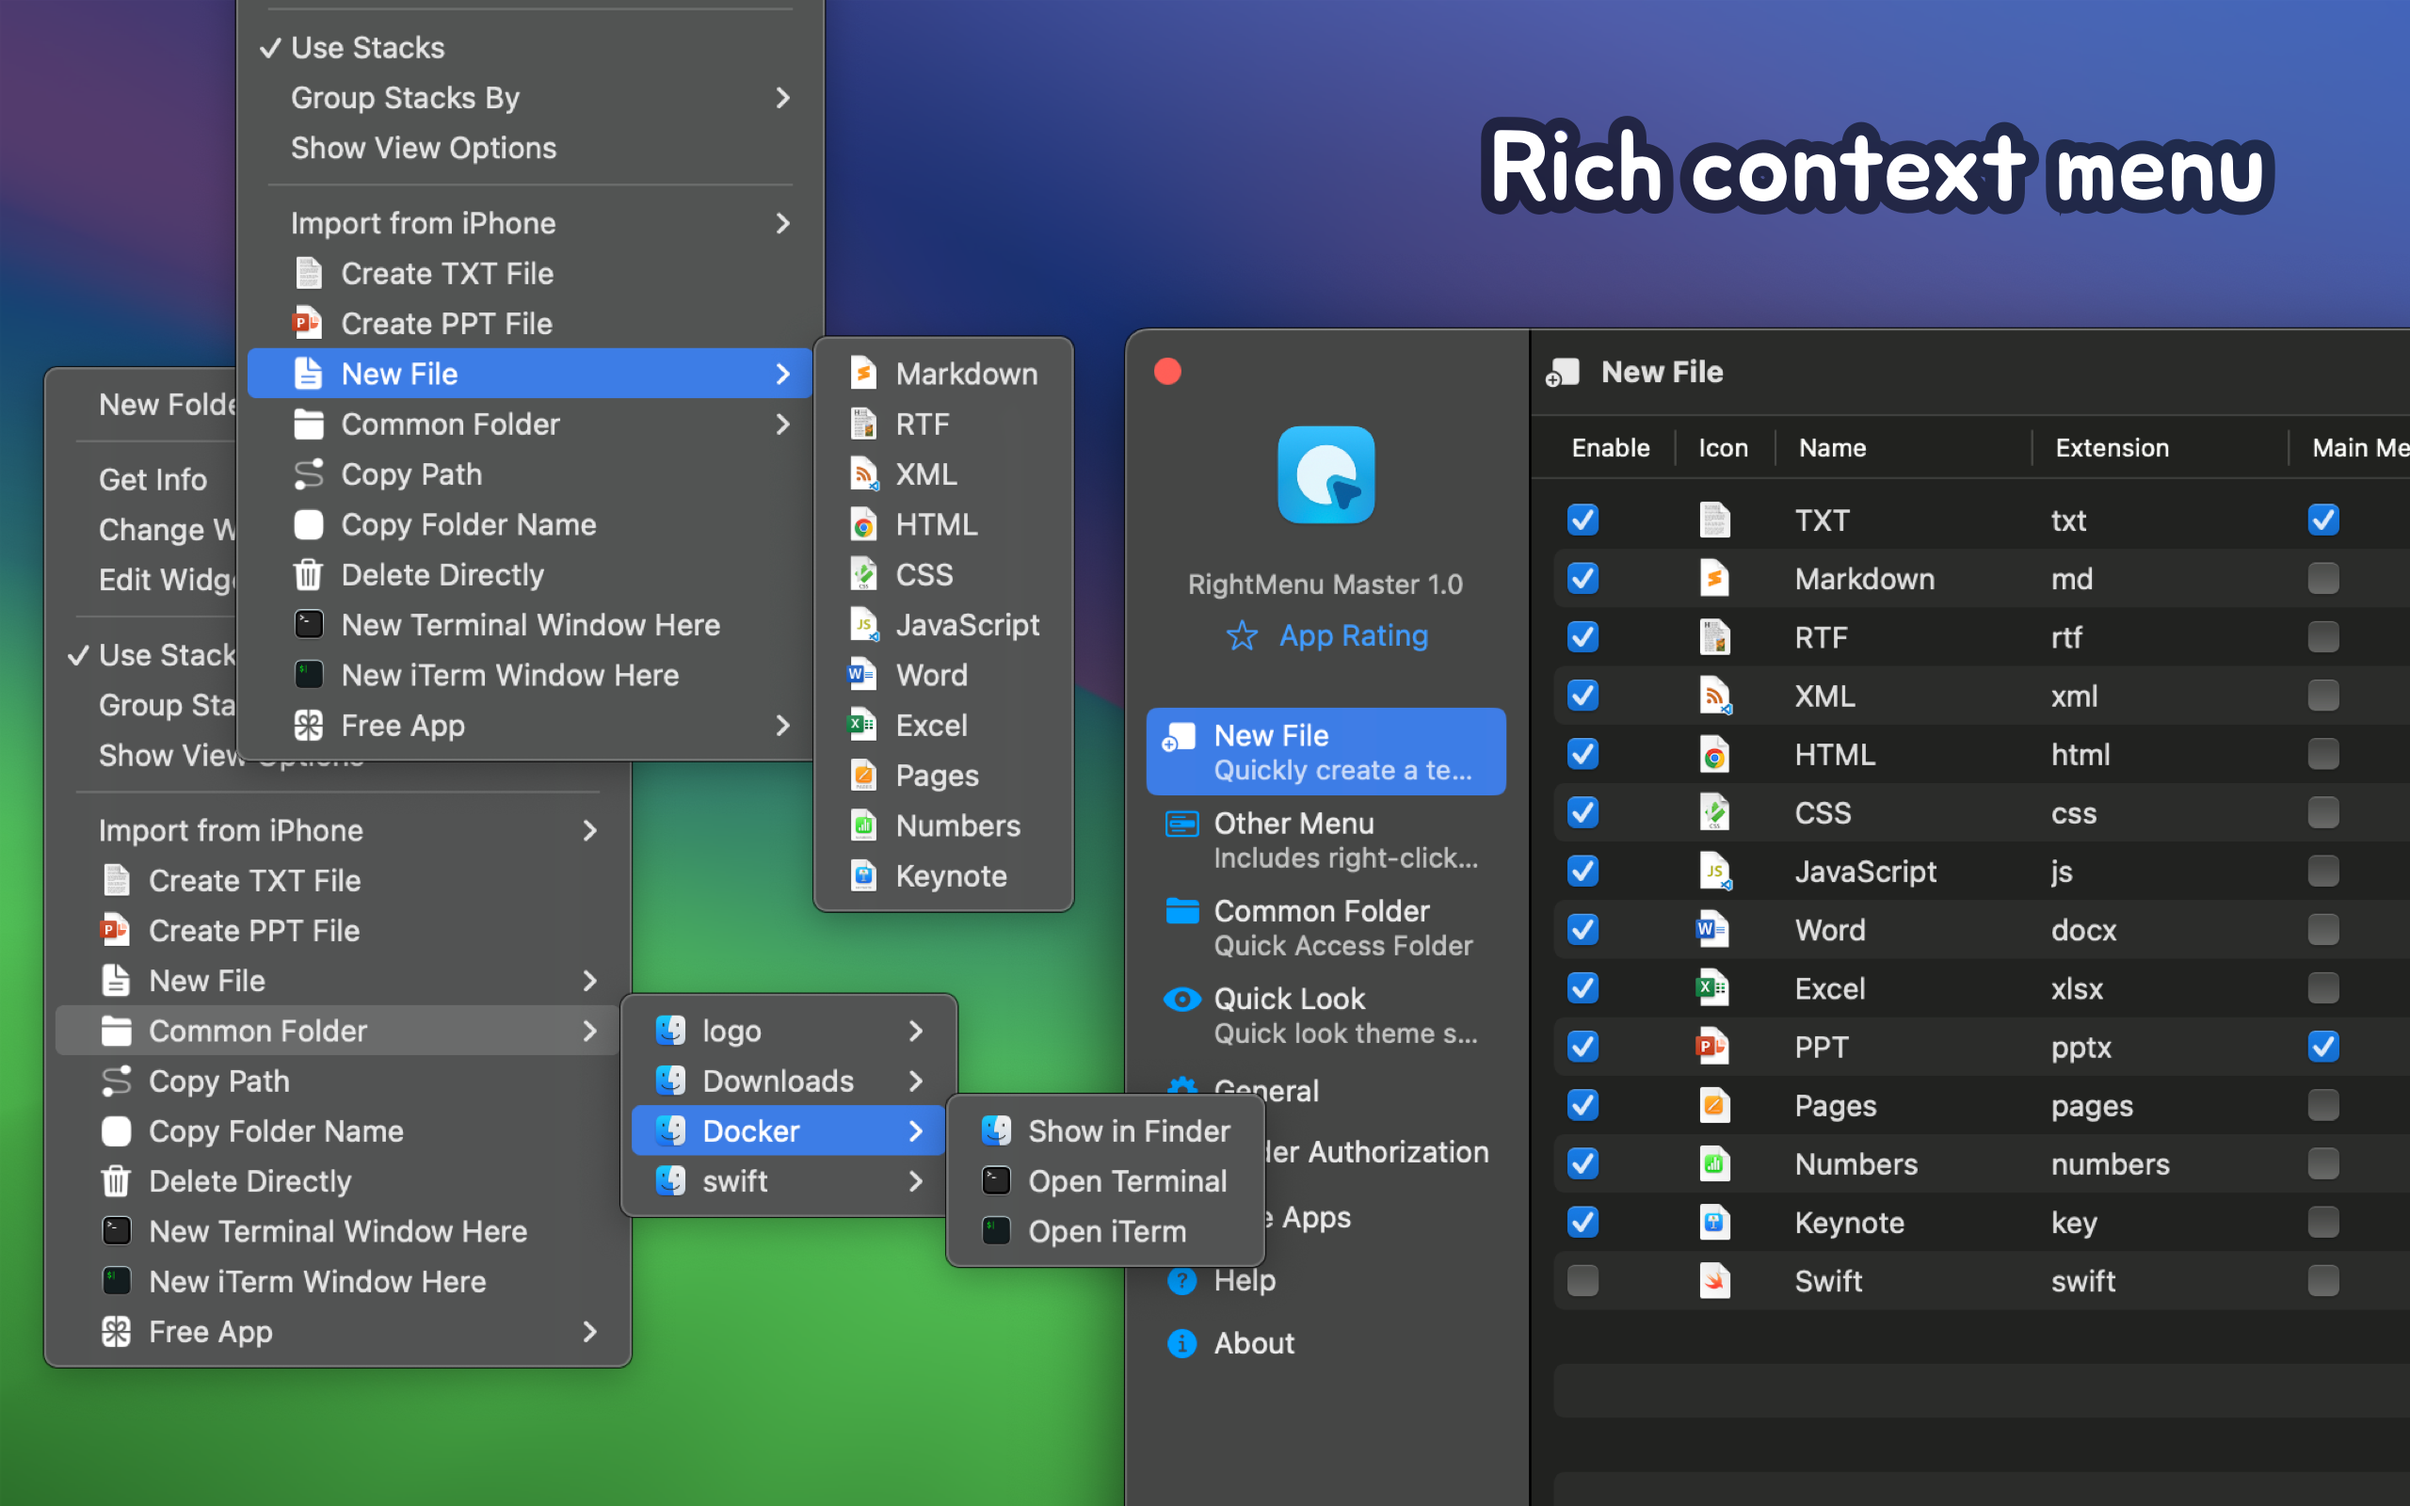
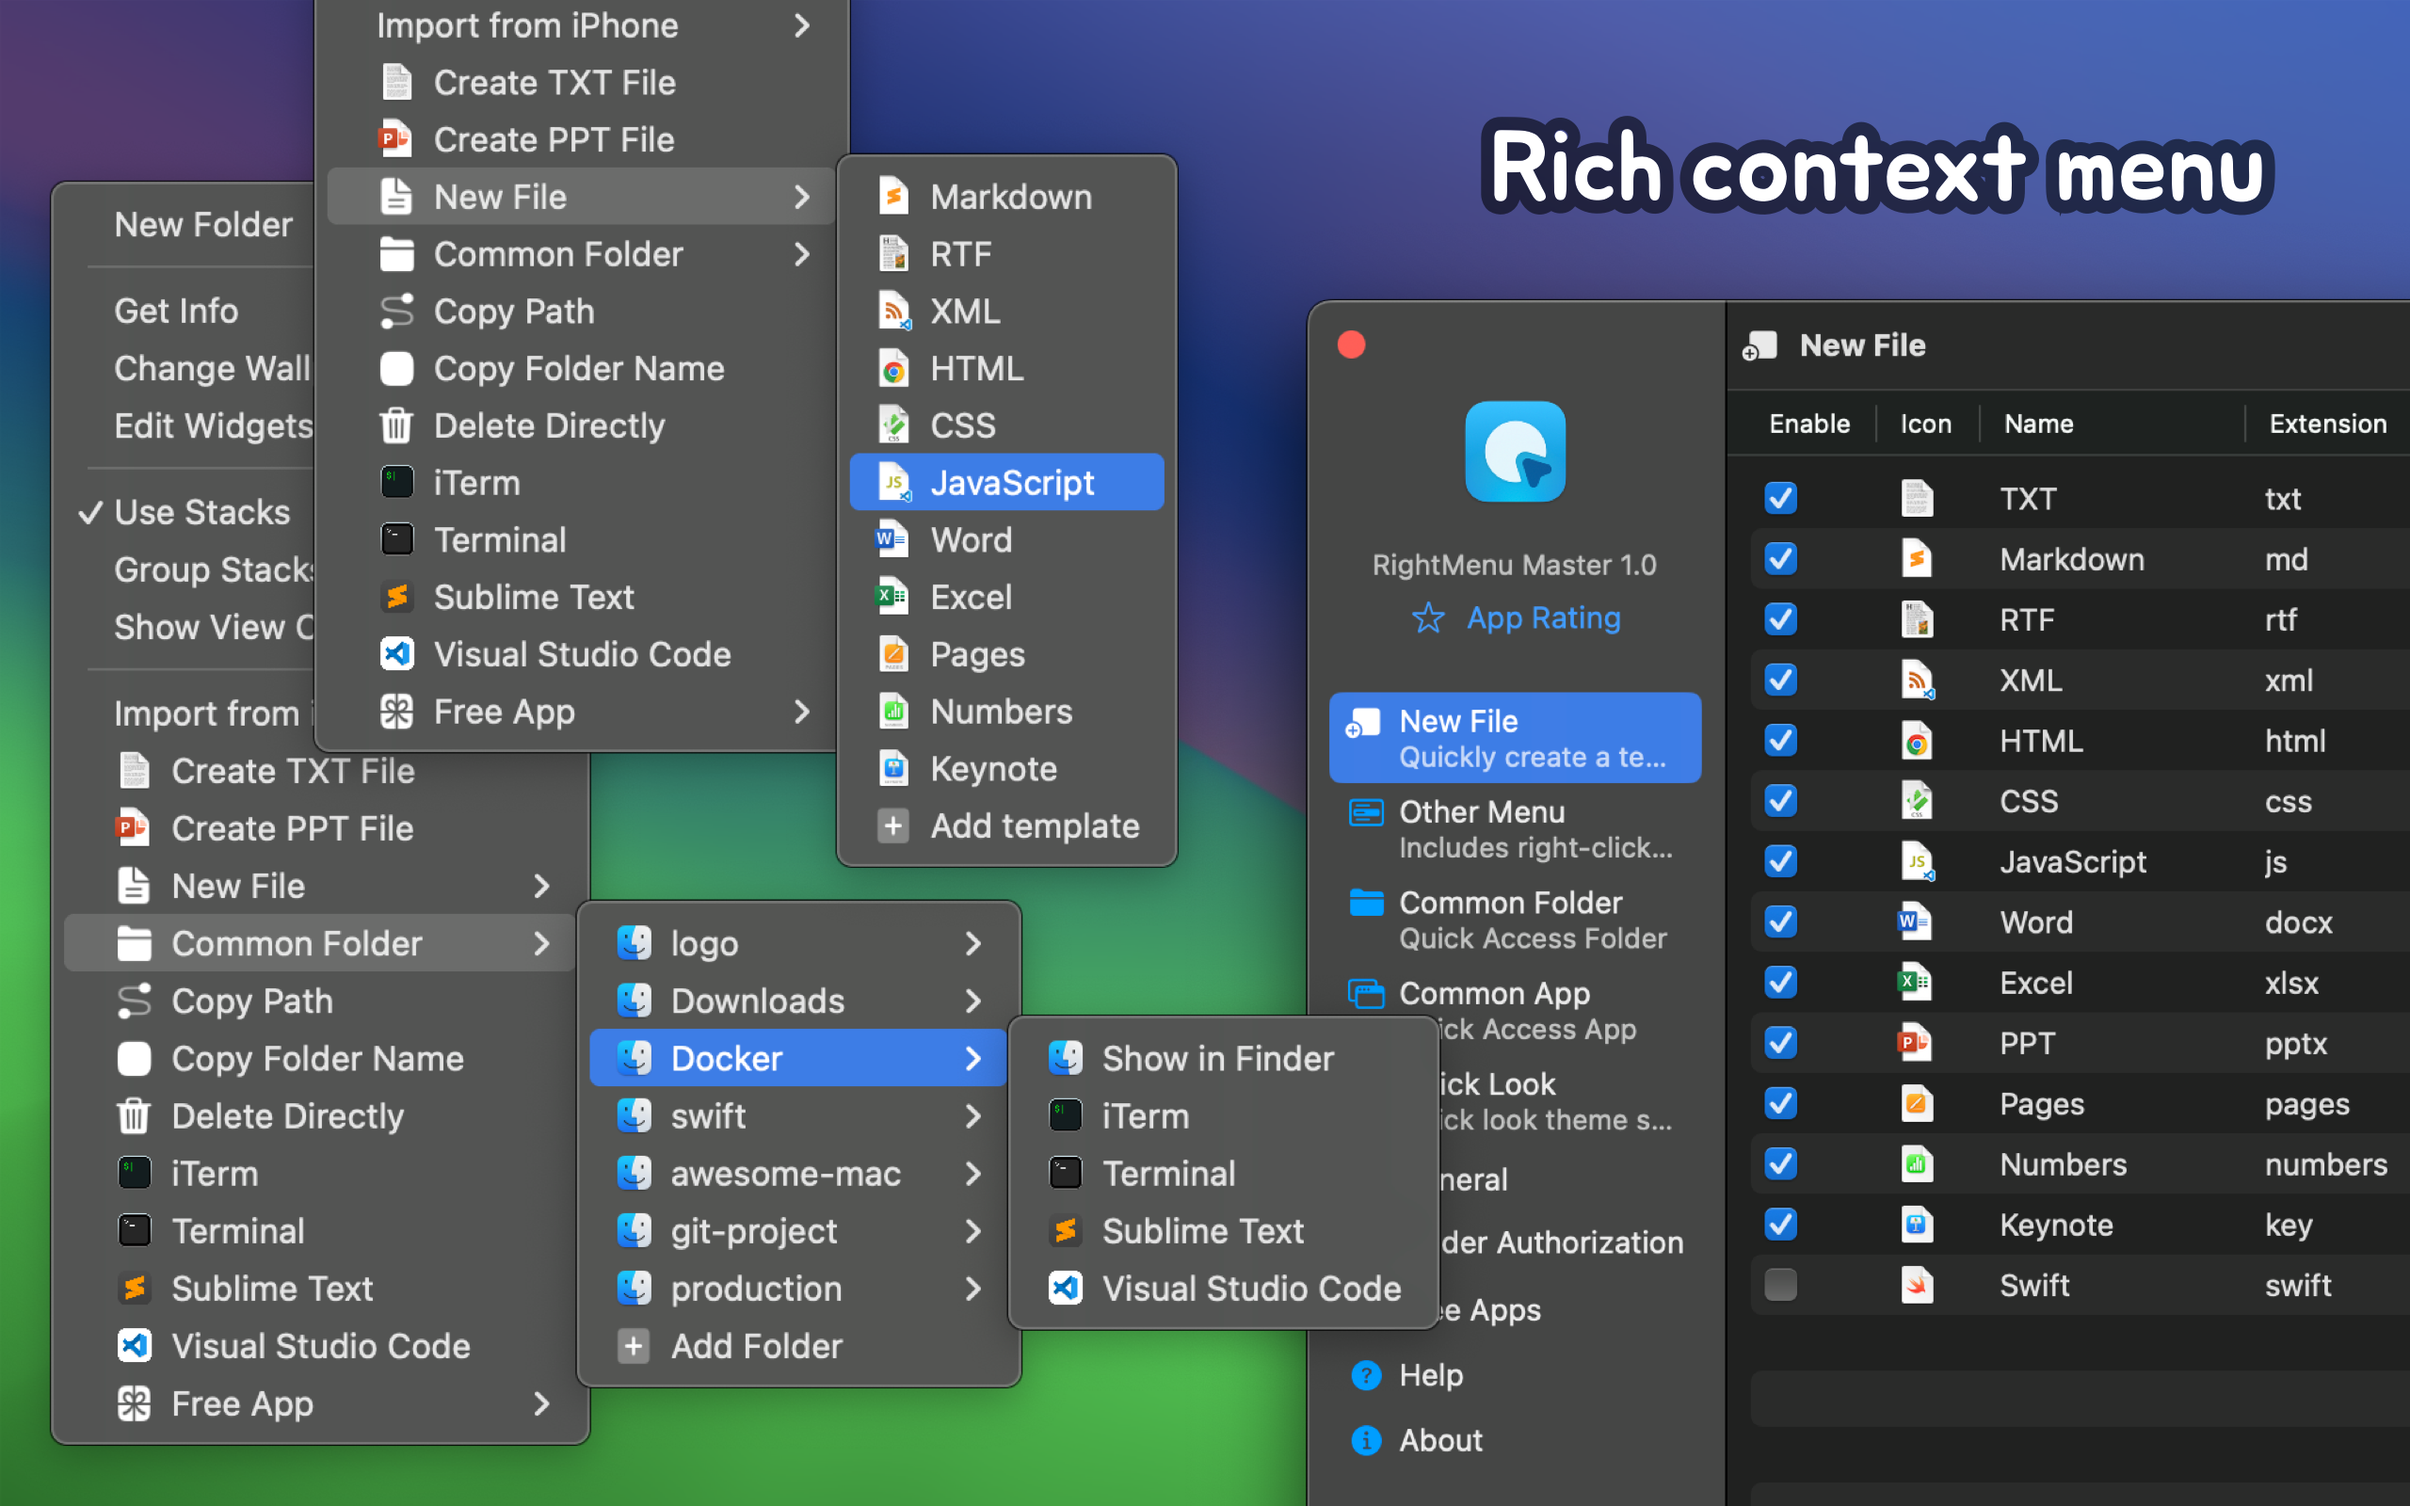
doc: update README.md

diff --git a/README.md b/README.md
@@ -52,9 +52,9 @@ A quick preview extension is provided for viewing source text files with syntax 
 
 Supports custom frequently used folders for quick access to directories or to open a new terminal window directly in a specific folder.
 
-**■ Create Terminal Window Here**
+**■ Common Apps**
 
-Supports opening a new terminal window in the current folder using Terminal or iTerm, making it easy to access the terminal in any directory.
+Supports various editors and command-line tools (Terminal/iTerm) to quickly open the current directory, enhancing operational efficiency.
 
 **■ Copy Features**
 

diff --git a/README.zh.md b/README.zh.md
@@ -50,9 +50,9 @@ Finder 缺乏便捷的方式来创建特定格式的新文件，而 RightMenu Ma
 
 支持自定义常用文件夹，可快速访问目录或在指定文件夹中直接新建终端窗口。
 
-**■ 在此处新建终端窗口**
+**■ 常用应用**
 
-支持使用 Terminal 或 iTerm 终端，快速在当前文件夹中打开新终端窗口。
+支持各类编辑器和命令行工具（Terminal/iTerm ）快速打开当前目录，提升操作效率
 
 **■ 复制功能**
 
